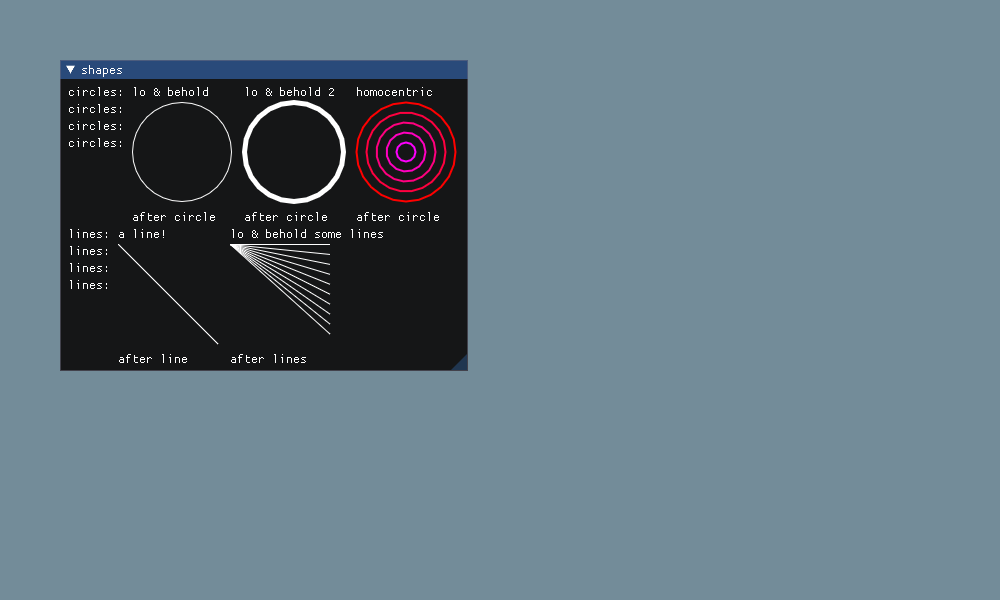
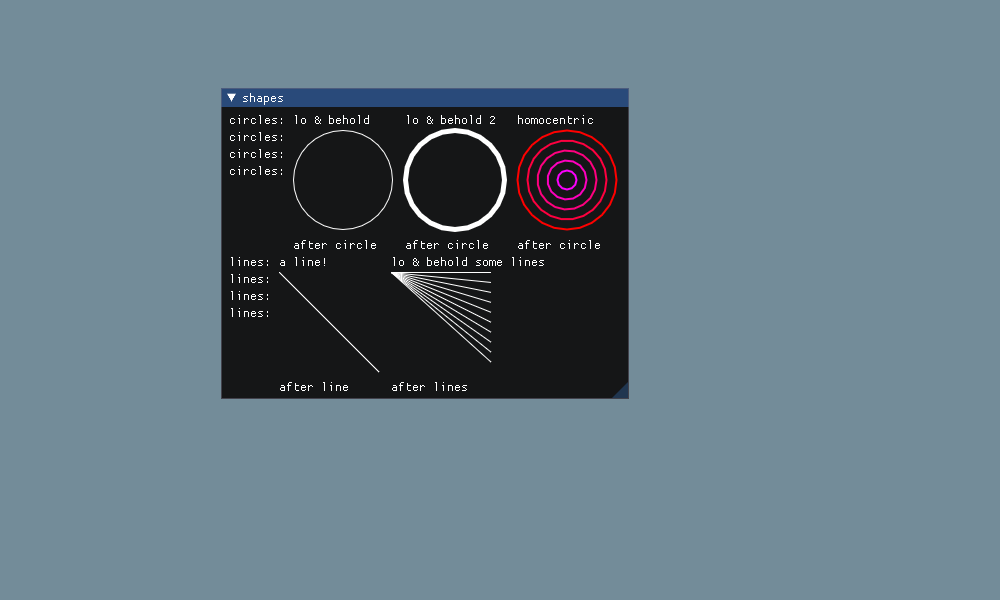
c++17, imgui/begin-maximized, sdl/set-window-size

Changed region(s): [[0.062, 0.09, 0.651, 0.69]]

diff --git a/src/main.cpp b/src/main.cpp
@@ -26,6 +26,8 @@
 #include "aod/s7/imgui_addons.hpp"
 //#include "aod/gl/gl.hpp"
 #include "aod/s7/gl.hpp"
+#include <iostream>
+#include <filesystem>
 
 #define DRAW_FN "draw"
 #define POST_DRAW_FN "post-draw"
@@ -35,6 +37,8 @@
 #define SDL_HEIGHT 600
 
 #define REPL_PORT 1234
+
+namespace fs = std::filesystem;
 
 int sdl_net_demo(void *data) {
     fprintf(stderr, "sdl_net_demo\n");
@@ -56,30 +60,44 @@ s7_pointer sc_exit(s7_scheme *sc, s7_pointer args) {
     return s7_nil(sc);
 }
 
+s7_pointer sc_sdl_set_size(s7_scheme *sc, s7_pointer args) {
+    int w = s7_number_to_integer(sc, s7_car(args));
+    int h = s7_number_to_integer(sc, s7_cadr(args));
+
+    SDL_Window *win = (SDL_Window*) s7_c_pointer(
+            s7_eval_c_string(sc, "sdl/*window*"));
+    SDL_SetWindowSize(win, w, h);
+    return s7_nil(sc);
+}
+
 // Main code
 int main(int argc, char *argv[]) {
 #ifdef __WIN32__
     // AllocConsole();
 #endif
+
+    fs::path cwd_launch = fs::current_path();
+    char *path_char = SDL_GetBasePath();
+    fs::path base_path = fs::path(path_char);
+    fprintf(stderr, "argv[0] %s\n", argv[0]);
+
     SDL_CreateThread(sdl_net_demo, "sdl_net", (void*) NULL);
     s7_scheme *sc = s7_init();
     s7_define_function(sc, "exit", sc_exit, 0, 0, 0, "exits the main loop");
     aod::s7::Repl repl(sc);
 
-    char *path = SDL_GetBasePath();
-    std::string base_path;
-    base_path += path;
+    std::string base_path_str;
+    base_path_str += path_char;
     std::string scheme_path;
-    scheme_path += base_path + "scheme/";
+    scheme_path += base_path_str + "scheme/";
     std::string scheme_s7_path;
     scheme_s7_path += scheme_path + "s7/";
-    fprintf(stderr, "base path is %s\n", base_path.c_str());
-
-    aod::path::set(base_path);
+    fprintf(stderr, "base path is %s\n", base_path_str.c_str());
 
     aod::s7::set_print_stderr(sc);
-    s7_add_to_load_path(sc, "scheme");
-    s7_add_to_load_path(sc, "s7");
+    std::cout << "scheme path is " << base_path / "scheme" << '\n';
+    s7_add_to_load_path(sc, (base_path / "scheme").c_str());
+//    s7_add_to_load_path(sc, "s7");
 
     aod::s7::set_print_stderr(sc);
     s7_eval_c_string(sc, "(display \"hello from s7 from cpp\n\"))");
@@ -108,7 +126,7 @@ int main(int argc, char *argv[]) {
 
     // TODO can i use base_path in windows? do the s7_add_to_load_path work?
     // aod::path::set(scheme_path);
-    aod::path::set(base_path);
+//    aod::path::set(base_path);
 
 #define AOD_S7_AUTOLOADS_TIMES_2 4
     static const char *autoloads[AOD_S7_AUTOLOADS_TIMES_2] = {
@@ -121,12 +139,19 @@ int main(int argc, char *argv[]) {
 
     if (argc >= 2) {
         fprintf(stderr, "Passed custom scheme file %s\n", argv[1]);
-        aod::s7::load_file(sc, argv[1]);
+        fs::path passed_file = cwd_launch / argv[1];
+//        passed_file.append()
+//        passed_file.replace_filename(argv[1]);
+//        std::cout << "cwd was " << cwd_launch << '\n';
+//        std::cout << "cwd is " << cwd_launch << " passed file " << passed_file << '\n';
+        std::cout << "path of passed file is " << passed_file.parent_path() << '\n';
+        s7_add_to_load_path(sc, passed_file.parent_path().c_str());
+        aod::s7::load_file(sc, passed_file.c_str());
     } else {
         aod::s7::load_file(sc, "main.scm");
     }
 
-    aod::path::set(base_path);
+//    aod::path::set(base_path_str);
 
     /*
      * Socket REPL
@@ -167,6 +192,18 @@ int main(int argc, char *argv[]) {
     SDL_Window *window = SDL_CreateWindow("Dear ImGui SDL2+OpenGL example",
     SDL_WINDOWPOS_CENTERED, SDL_WINDOWPOS_CENTERED, SDL_WIDTH, SDL_HEIGHT,
             window_flags);
+
+//    SDL_SetWindowSize()
+
+    // s7 & sdl
+    s7_pointer sc_sdl_window = s7_make_c_pointer(sc, window);
+    s7_define(sc, s7_nil(sc), s7_make_symbol(sc, "sdl/*window*"),
+            sc_sdl_window);
+    s7_define_function(sc, "sdl/set-window-size", sc_sdl_set_size, 2, 0, false,
+            "(w h) sets the size of the sdl window");
+
+    // .....
+
     if (window == NULL) {
         fprintf(stderr, "Could not create SDL window");
         return -1;
@@ -213,8 +250,6 @@ int main(int argc, char *argv[]) {
     s7_define(sc, s7_nil(sc), s7_make_symbol(sc, "imgui/clear-color"),
             s7_make_c_object(sc, aod::s7::foreign::tag_float_arr(sc),
                     (void*) &clear_color));
-
-
 
     s7_call(sc, s7_name_to_value(sc, SETUP_FN), s7_nil(sc));
 
@@ -268,12 +303,17 @@ int main(int argc, char *argv[]) {
         ImGui_ImplOpenGL2_RenderDrawData(ImGui::GetDrawData());
         SDL_GL_SwapWindow(window);
 
-        s7_pointer post_draw = s7_name_to_value(sc, POST_DRAW_FN);
-        if (!s7_is_null(sc, post_draw)) {
-            s7_call(sc, post_draw, s7_nil(sc));
-        }
-    }
+//        s7_pointer post_draw = s7_name_to_value(sc, POST_DRAW_FN);
 
+//        s7_pointer post_draw = s7_symbol_table_find_name(sc, POST_DRAW_FN);
+//        s7_pointer post_draw = s7_symbol_table_find_name(sc, POST_DRAW_FN); // returns a symbol
+////         s7_is_defined
+//        if (post_draw) {
+//            s7_call(sc, s7_symbol_value(sc, post_draw), s7_nil(sc));
+//        }
+        s7_eval_c_string(sc, "(if (defined? 'post-draw) (post-draw))");
+    }
+//    s7_is_
     fprintf(stderr, "Quit main loop, cleaning up..\n");
 
     // Cleanup

diff --git a/src/aod/s7/imgui.cpp b/src/aod/s7/imgui.cpp
@@ -2,10 +2,55 @@
 #include "s7.h"
 #include "aod/s7/foreign_primitives_arr.hpp"
 #include "aod/s7/foreign_primitives.hpp"
+#include <GL/gl.h>
 
 namespace aod {
 namespace s7 {
 namespace imgui {
+
+namespace windows {
+s7_pointer begin_maximized(s7_scheme *sc, s7_pointer args) {
+    GLint viewport[4];
+    glGetIntegerv(GL_VIEWPORT, viewport);
+
+    int x = viewport[0];
+    int y = viewport[1];
+    int w = viewport[2];
+    int h = viewport[3];
+
+    ImGui::SetNextWindowPos(ImVec2(0.0f, 0.0f));
+    ImGui::SetNextWindowSize(ImVec2((float) w, (float) h));
+
+//    ImGui::PushStyleVar(ImGuiStyleVar_WindowRounding, 0.0f);
+//    ImGui::PushStyleVar(ImGuiStyleVar_WindowBorderSize, 0.0f);
+
+    bool show = true;
+    ImGui::Begin("maximized-window", &show,
+            ImGuiWindowFlags_MenuBar | ImGuiWindowFlags_NoTitleBar
+                    | ImGuiWindowFlags_NoResize | ImGuiWindowFlags_NoMove
+                    | ImGuiWindowFlags_NoCollapse);
+
+//    ImGuiWindowFlags window_flags = ImGuiWindowFlags_MenuBar;
+//    window_flags |= ImGuiWindowFlags_NoTitleBar | ImGuiWindowFlags_NoResize
+//            | ImGuiWindowFlags_NoMove;
+//    window_flags |= ImGuiWindowFlags_NoBringToFrontOnFocus
+//            | ImGuiWindowFlags_NoNavFocus;
+
+//    ImGui::PopStyleVar(2);
+
+    return s7_nil(sc);
+}
+
+void bind(s7_scheme *sc) {
+
+    s7_define_function(sc, "imgui/begin-maximized", begin_maximized, // ..
+            0, // req args
+            0, // optional args (the open boolean pointer)
+            false, // rest args
+            "Begin a/the maximized window");
+
+}
+}
 
 namespace general { // anonymous namespace: the functions
 
@@ -135,6 +180,16 @@ void bind(s7_scheme *sc) {
 
 namespace menus {
 
+s7_pointer begin_menu_bar(s7_scheme *sc, s7_pointer args) {
+    return s7_make_boolean(sc, ImGui::BeginMenuBar());
+}
+
+s7_pointer end_menu_bar(s7_scheme *sc, s7_pointer args) {
+    ImGui::EndMenuBar();
+
+    return s7_nil(sc);
+}
+
 s7_pointer begin_main_menu_bar(s7_scheme *sc, s7_pointer args) {
     return s7_make_boolean(sc, ImGui::BeginMainMenuBar());
 }
@@ -177,6 +232,18 @@ s7_pointer menu_item(s7_scheme *sc, s7_pointer args) {
 }
 
 void bind(s7_scheme *sc) {
+    s7_define_function(sc, "imgui/begin-menu-bar", begin_menu_bar, // ..
+            0, // req args
+            0, // optional args
+            false, // rest args
+            "ImGui::BeginMenuBar");
+
+    s7_define_function(sc, "imgui/end-menu-bar", end_menu_bar, // ..
+            0, // req args
+            0, // optional args
+            false, // rest args
+            "ImGui::EndMenuBar");
+
     s7_define_function(sc, "imgui/begin-main-menu-bar", begin_main_menu_bar, // ..
             0, // req args
             0, // optional args
@@ -235,7 +302,7 @@ s7_pointer begin_child(s7_scheme *sc, s7_pointer args) {
     if (!s7_is_string(title))
         return (s7_wrong_type_arg_error(sc, "imgui/begin-child", 1, title,
                 "First argument is title, should be a string"));
-    // only automatic width for now
+// only automatic width for now
     ImGui::BeginChild(s7_string(title), ImVec2(0, 0));
 
     return s7_nil(sc);
@@ -413,6 +480,7 @@ void bind(s7_scheme *sc) {
     layout::bind(sc);
     draw::bind(sc);
     colors::bind(sc);
+    windows::bind(sc);
 
 }
 

diff --git a/src/aod/path.hpp b/src/aod/path.hpp
@@ -25,21 +25,35 @@ namespace aod {
 namespace path {
 void set(std::string path) {
 #ifdef __linux__
-	fprintf(stderr, "setting path to %s\n", path.c_str());
-	chdir(path.c_str());
+    fprintf(stderr, "setting path to %s\n", path.c_str());
+    chdir(path.c_str());
 #else
 	_chdir(path.c_str());
 #endif
 }
 
+char* get() {
+#ifdef __linux__
+    /**
+     * The GNU library version of this function also permits you to specify a null pointer for the buffer argument.
+     Then getcwd allocates a buffer automatically, as with malloc . If the size is greater than zero, then the
+     buffer is that large; otherwise, the buffer is as large as necessary to hold the result.
+     */
+    return getcwd(NULL, 0);
+#else
+    fprintf(stderr, "cwd not implemented\n");
+    exit(1);
+#endif
+}
+
 void print_cwd() {
 #ifdef __linux__
-	char cwd[512];
-	if (getcwd(cwd, sizeof(cwd)) != NULL) {
-		printf("Current working dir: %s\n", cwd);
-	} else {
-		perror("getcwd() error");
-	}
+    char cwd[512];
+    if (getcwd(cwd, sizeof(cwd)) != NULL) {
+        printf("Current working dir: %s\n", cwd);
+    } else {
+        perror("getcwd() error");
+    }
 #else
 	   fprintf(stderr, "print_cwd not implemented\n");
 #endif
